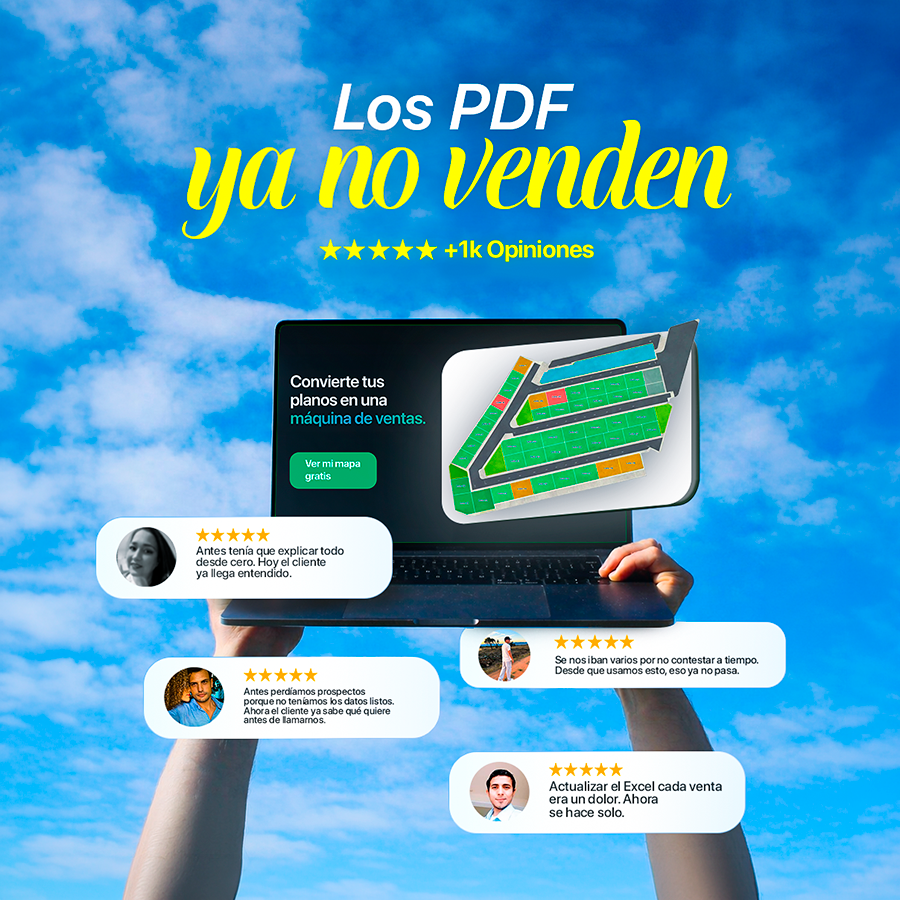
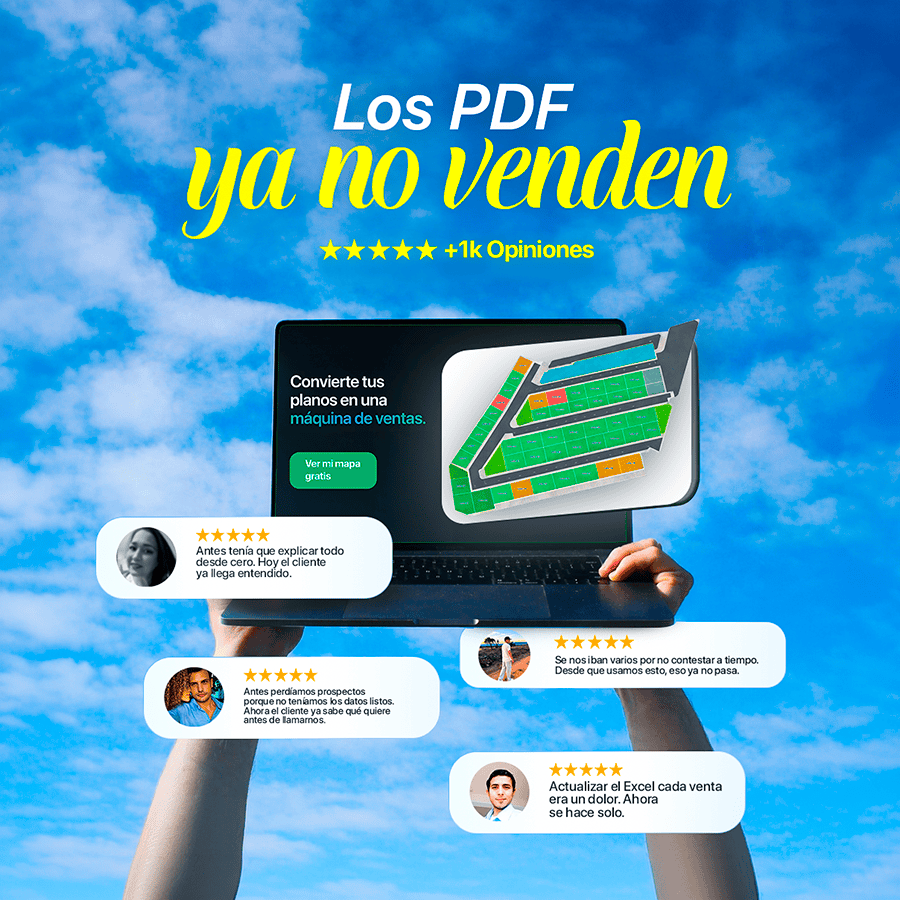
perf: lazy src loading + fix autoplay + compress images
SliderVideo y SliderImg ahora no asignan src hasta que el elemento
entra al viewport (+ 600px margen horizontal). Antes con preload=
"metadata" se hacían requests para los 27 elementos al cargar la
página. Ahora solo se cargan los medios visibles o próximos a serlo.

- SliderVideo: preload="none", src lazy via IO, autoPlay+muted+
  playsInline para iOS Safari, onCanPlay como backup de play()
- SliderImg: src lazy via IO con 800px margen horizontal
- 6.png: 2.1MB → 56KB (-97%), 5.png: 1.1MB → 252KB, 8.png: 302KB

diff --git a/src/components/ui/SliderMedia.tsx b/src/components/ui/SliderMedia.tsx
@@ -1,0 +1,184 @@
+import { useEffect, useRef, useState } from 'react'
+
+/**
+ * SliderVideo
+ * ─────────────────────────────────────────────────────────────
+ * • src NO se asigna hasta que el elemento entra en viewport
+ *   (+ 600 px horizontales de margen) → 0 requests para items
+ *   fuera de pantalla.
+ * • autoPlay + muted + playsInline → iOS Safari permite autoplay.
+ * • IntersectionObserver: play al entrar, pause al salir.
+ *   Al re-entrar (loop del slider) retoma reproducción.
+ * • preload="none" para no cargar datos antes de ser visible.
+ * • Shimmer animado mientras carga, fade-in cuando tiene datos.
+ */
+export function SliderVideo({
+  src,
+  style,
+}: {
+  src: string
+  style?: React.CSSProperties
+}) {
+  const ref        = useRef<HTMLVideoElement>(null)
+  const [ready,  setReady]  = useState(false)
+  const [error,  setError]  = useState(false)
+  const [active, setActive] = useState(false) // ← lazy: src solo se pone al ser visible
+
+  // ── Lazy load + play/pause por viewport ─────────────────────
+  useEffect(() => {
+    const vid = ref.current
+    if (!vid || !src) return
+
+    const io = new IntersectionObserver(
+      ([entry]) => {
+        if (entry.isIntersecting) {
+          // Primera vez visible: activar src → browser empieza a cargar
+          setActive(true)
+          // Si ya tiene datos (src previamente cargado), reproducir inmediatamente
+          if (vid.readyState >= 2) {
+            vid.play().catch(() => {})
+          }
+        } else {
+          vid.pause()
+        }
+      },
+      {
+        threshold: 0.05,
+        // 200 px vertical (anticipar scroll hasta la sección)
+        // 600 px horizontal (precargar items adyacentes del slider)
+        rootMargin: '200px 600px 200px 600px',
+      }
+    )
+
+    io.observe(vid)
+    return () => io.disconnect()
+  }, [src])
+
+  if (!src || error) {
+    return (
+      <div style={{
+        ...style,
+        background: 'linear-gradient(135deg, #1a1a1a 0%, #0d0d0d 100%)',
+      }} />
+    )
+  }
+
+  return (
+    <div style={{ position: 'relative', ...style, background: '#0d0d0d' }}>
+      {/* Shimmer mientras el video no tiene primer frame */}
+      {!ready && (
+        <div style={{
+          position: 'absolute', inset: 0, zIndex: 1,
+          background: 'linear-gradient(135deg, #1c1c1c 0%, #111 50%, #1c1c1c 100%)',
+          backgroundSize: '200% 100%',
+          animation: 'slider-shimmer 1.6s ease infinite',
+        }} />
+      )}
+      <video
+        ref={ref}
+        src={active ? src : undefined}
+        muted
+        loop
+        playsInline
+        autoPlay          /* cuando src se activa, el browser reproduce solo */
+        preload="none"    /* sin requests hasta que src esté asignado */
+        onCanPlay={() => {
+          // Backup: forzar play cuando el browser esté listo
+          ref.current?.play().catch(() => {})
+        }}
+        onLoadedData={() => setReady(true)}
+        onError={() => setError(true)}
+        style={{
+          ...style,
+          position: 'relative', zIndex: 2,
+          opacity: ready ? 1 : 0,
+          transition: 'opacity .4s ease',
+          objectFit: 'cover',
+          objectPosition: 'top center',
+          display: 'block',
+        }}
+      />
+    </div>
+  )
+}
+
+/**
+ * SliderImg
+ * ─────────────────────────────────────────────────────────────
+ * • src NO se asigna hasta que el elemento está cerca del viewport.
+ * • Shimmer + fade-in cuando termina de cargar.
+ * • Sin loading="lazy" (incompatible con sliders transform-based).
+ * • Errores manejados sin romper layout.
+ */
+export function SliderImg({
+  src,
+  style,
+}: {
+  src: string
+  style?: React.CSSProperties
+}) {
+  const ref        = useRef<HTMLImageElement>(null)
+  const [ready,  setReady]  = useState(false)
+  const [error,  setError]  = useState(false)
+  const [active, setActive] = useState(false) // ← lazy: src solo al acercarse al viewport
+
+  useEffect(() => {
+    const img = ref.current
+    if (!img || !src) return
+
+    const io = new IntersectionObserver(
+      ([entry]) => {
+        if (entry.isIntersecting) {
+          setActive(true)
+          io.disconnect() // imagen: solo cargar una vez
+        }
+      },
+      {
+        threshold: 0.01,
+        rootMargin: '200px 800px 200px 800px',
+      }
+    )
+
+    io.observe(img)
+    return () => io.disconnect()
+  }, [src])
+
+  if (!src || error) {
+    return (
+      <div style={{
+        ...style,
+        background: 'linear-gradient(135deg, #1a1a1a 0%, #0d0d0d 100%)',
+      }} />
+    )
+  }
+
+  return (
+    <div style={{ position: 'relative', ...style, background: '#0d0d0d' }}>
+      {!ready && (
+        <div style={{
+          position: 'absolute', inset: 0, zIndex: 1,
+          background: 'linear-gradient(135deg, #1c1c1c 0%, #111 50%, #1c1c1c 100%)',
+          backgroundSize: '200% 100%',
+          animation: 'slider-shimmer 1.6s ease infinite',
+        }} />
+      )}
+      <img
+        ref={ref}
+        src={active ? src : undefined}
+        alt=""
+        decoding="async"
+        onLoad={() => setReady(true)}
+        onError={() => setError(true)}
+        style={{
+          ...style,
+          position: 'relative', zIndex: 2,
+          opacity: ready ? 1 : 0,
+          transition: 'opacity .4s ease',
+          objectFit: 'cover',
+          objectPosition: 'top center',
+          display: 'block',
+        }}
+      />
+    </div>
+  )
+}